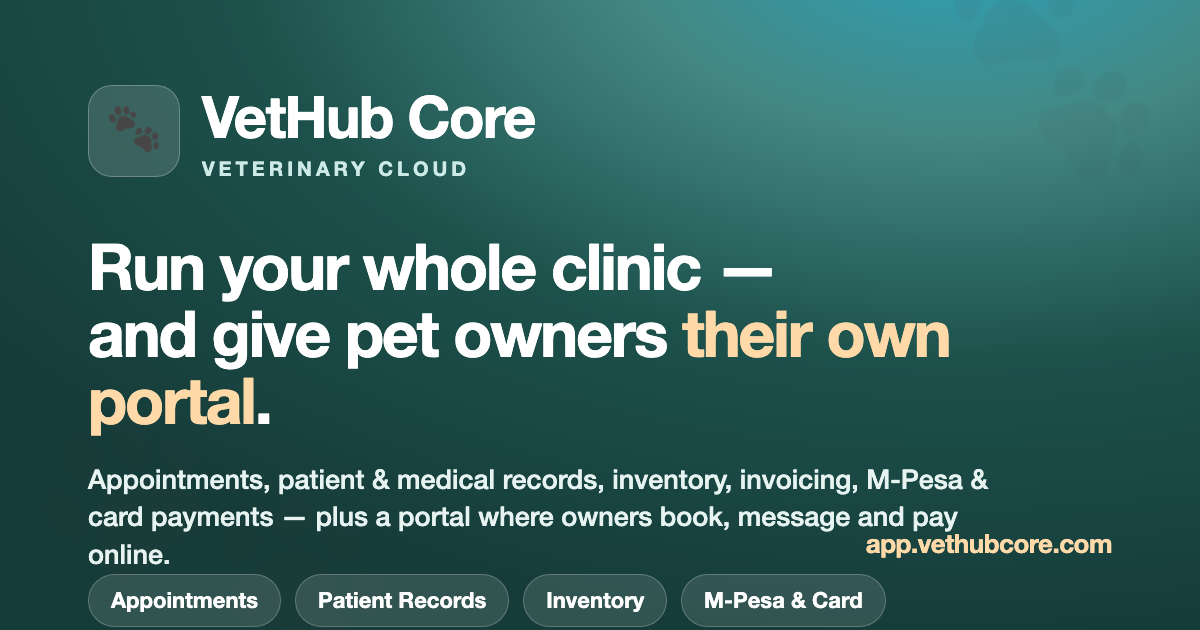
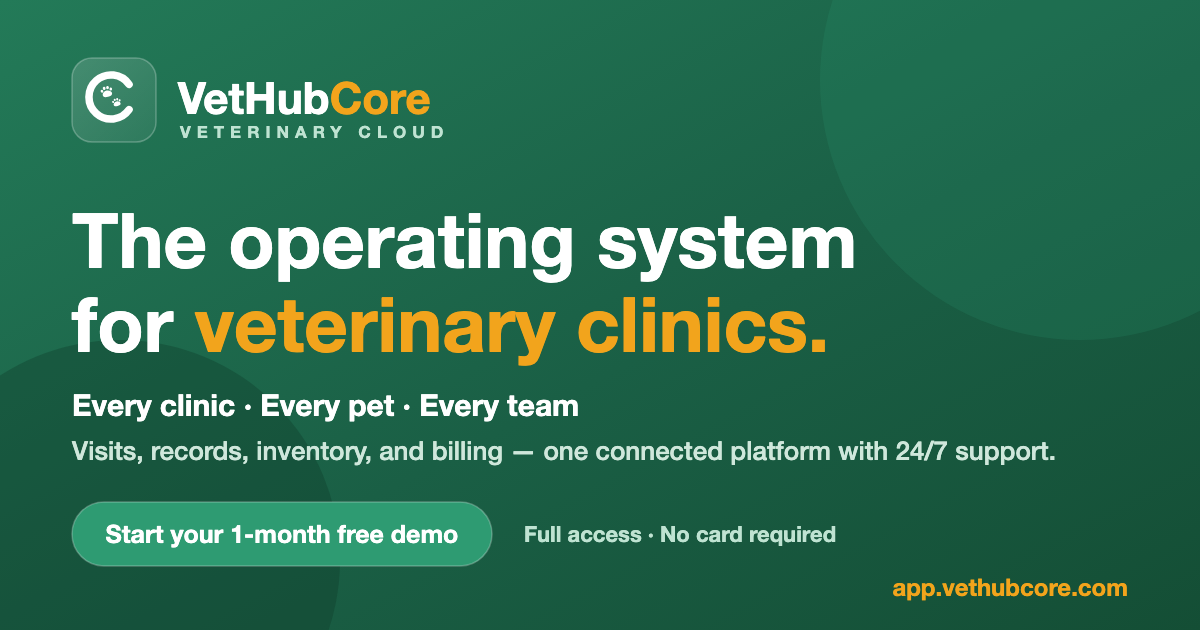
OG preview matches the landing hero + workflow loading pill + vaccination out of transfer list
- New og-image.png (1200x630, hero copy: 'The operating system for
  veterinary clinics' / Every clinic Every pet Every team / free-demo CTA);
  title/description/OG/twitter meta rewritten to the hero message;
  og:image URL cache-busted (?v=2) so WhatsApp refetches
- Visit workflow: amber 'Loading' pill next to the Journey button whenever
  ANY request is in flight (global pending-request counter in the API
  client, subscribePendingRequests)
- Vaccination removed from the transfer/add-encounter dropdown - it's part
  of the vet visit (vaccine services / Vaccination workflow chip)

diff --git a/services/api/client.ts b/services/api/client.ts
@@ -32,6 +32,23 @@ const sleep = (ms: number): Promise<void> => {
 };
 
 /**
+ * Global network-activity tracker — how many requests are in flight right
+ * now (cache hits don't count). UI surfaces (e.g. the visit workflow's
+ * loading pill) subscribe to show that SOMETHING is loading.
+ */
+let pendingCount = 0;
+const pendingListeners = new Set<(n: number) => void>();
+export const subscribePendingRequests = (fn: (n: number) => void): (() => void) => {
+  pendingListeners.add(fn);
+  fn(pendingCount);
+  return () => { pendingListeners.delete(fn); };
+};
+const bumpPending = (delta: number) => {
+  pendingCount = Math.max(0, pendingCount + delta);
+  pendingListeners.forEach(fn => { try { fn(pendingCount); } catch { /* listener */ } });
+};
+
+/**
  * Make API request with retry logic and caching
  */
 const makeRequest = async <T = any>(
@@ -63,6 +80,8 @@ const makeRequest = async <T = any>(
   if (setLoading && !silent) {
     setLoading(true);
   }
+  bumpPending(1);
+  try {
 
   let lastError: any;
   let retryCount = 0;
@@ -129,6 +148,10 @@ const makeRequest = async <T = any>(
   }
 
   throw lastError;
+
+  } finally {
+    bumpPending(-1);
+  }
 };
 
 /**

diff --git a/components/clinic/appointments/VisitDetailView.tsx b/components/clinic/appointments/VisitDetailView.tsx
@@ -16,6 +16,7 @@ import { generateServiceNote, generateFullVisitSummary, analyzeServiceObservatio
 import { formatDate, formatTime } from '../../../services/utils/dateFormatter';
 import { vaccinationsAPI, visitsAPI, petsAPI, InventoryItem, clientDiscountsAPI, dialog, walletAPI, CATEGORY_TO_MENU_ID, remindersAPI, triageAPI } from '../../../services';
 import { printElementAsPdf } from '../shared/printPdf';
+import { subscribePendingRequests } from '../../../services/api/client';
 import type { Wallet as WalletData } from '../../../services';
 import { VaccinationRecord } from '../../../services/modules/vaccinations.api';
 import { appointmentMedicationsAPI, AppointmentMedication } from '../../../services/modules/appointmentMedications.api';
@@ -256,6 +257,10 @@ const VisitDetailInner: React.FC<Props> = ({
     return () => document.removeEventListener('mousedown', onDocClick);
   }, [printMenuFor]);
 
+  // Live network activity — the workflow shows a loading pill whenever ANY
+  // request is in flight (visit refresh, records, consumables, wallets…).
+  const [netBusy, setNetBusy] = useState(0);
+  useEffect(() => subscribePendingRequests(setNetBusy), []);
   const [isGeneratingSummary, setIsGeneratingSummary] = useState(false);
   const [isFinalizing, setIsFinalizing] = useState(false);
   const [showFinalizeGate, setShowFinalizeGate] = useState(false);
@@ -2536,10 +2541,18 @@ const VisitDetailInner: React.FC<Props> = ({
             <button key={t.id} onClick={() => setWorkflowTab(t.id as any)} className={`px-4 py-2 rounded-lg text-[10px] font-black uppercase tracking-widest transition-all whitespace-nowrap ${workflowTab === t.id ? 'bg-white dark:bg-zinc-800 text-pine dark:text-zinc-100 shadow-sm' : 'text-slate-400 hover:text-slate-600'}`}>{t.label}</button>
           ))}
         </div>
-        {/* Patient Journey — reachable from every tab, not only the wizard. */}
-        <button onClick={() => setShowJourney(true)} className="flex items-center gap-1.5 px-3 py-2 rounded-xl border border-seafoam/30 bg-seafoam/5 text-seafoam text-[10px] font-black uppercase tracking-widest hover:bg-seafoam hover:text-white transition-all">
-          🧭 Journey · {wiz.events.length}
-        </button>
+        <div className="flex items-center gap-2">
+          {/* Anything loading anywhere on this visit shows here. */}
+          {netBusy > 0 && (
+            <span className="flex items-center gap-1.5 px-3 py-2 rounded-xl border border-amber-300/60 dark:border-amber-700/50 bg-amber-50 dark:bg-amber-900/20 text-amber-700 dark:text-amber-400 text-[10px] font-black uppercase tracking-widest animate-in fade-in">
+              <Loader2 size={12} className="animate-spin" /> Loading{netBusy > 1 ? ` · ${netBusy}` : '…'}
+            </span>
+          )}
+          {/* Patient Journey — reachable from every tab, not only the wizard. */}
+          <button onClick={() => setShowJourney(true)} className="flex items-center gap-1.5 px-3 py-2 rounded-xl border border-seafoam/30 bg-seafoam/5 text-seafoam text-[10px] font-black uppercase tracking-widest hover:bg-seafoam hover:text-white transition-all">
+            🧭 Journey · {wiz.events.length}
+          </button>
+        </div>
       </div>
 
       {/* Tab 0 — Dynamic clinical wizard (entry-point-driven) */}

diff --git a/index.html b/index.html
@@ -6,8 +6,8 @@
   <meta name="viewport" content="width=device-width, initial-scale=1.0">
 
   <!-- ── SEO ───────────────────────────────────────────────────────── -->
-  <title>VetHub Core — Veterinary Practice Management Software & Pet-Owner Portal</title>
-  <meta name="description" content="VetHub Core is the operating system for veterinary clinics. Run your whole practice in one place: appointments, patient & medical records, inventory, invoicing, M-Pesa & card payments, plus a pet-owner portal for booking and paying online.">
+  <title>VetHub Core — The Operating System for Veterinary Clinics</title>
+  <meta name="description" content="The operating system for veterinary clinics. Every clinic · Every pet · Every team. Visits, records, inventory, and billing — one connected platform with 24/7 support. Start your 1-month free demo: full access, no card required.">
   <meta name="keywords" content="VetHub, Vet Hub, VetHub Core, Vet Hub Core, VetHubCore, vethubcore, vethubcore.com, VetHub vet software, VetHub veterinary, VetHub clinic, VetHub app, VetHub login, VetHub Kenya, VetHub Uganda, VetHub Tanzania, VetHub Nigeria, VetHub Ghana, VetHub Rwanda, VetHub South Africa, VetHub East Africa, VetHub Africa, veterinary practice management software, vet clinic software, pet clinic management, vet appointment scheduling, veterinary EMR, pet owner portal, M-Pesa vet payments, veterinary boarding software, pet boarding management, veterinary laboratory software, vet lab results, veterinary surgery management, veterinary imaging software, vet radiology, veterinary inpatient software, animal hospitalization management, emergency vet software, pet grooming software, veterinary vaccination reminders, vaccine package management, veterinary dental records, veterinary pharmacy inventory, vet billing and invoicing, veterinary software Kenya, veterinary software Uganda, veterinary software Tanzania, veterinary software Nigeria, veterinary software Ghana, veterinary software Rwanda, veterinary software South Africa, veterinary software East Africa, veterinary software Africa">
   <meta name="author" content="VetHub Core">
   <meta name="application-name" content="VetHub Core">
@@ -24,21 +24,21 @@
   <meta property="og:type" content="website">
   <meta property="og:site_name" content="VetHub Core">
   <meta property="og:url" content="https://app.vethubcore.com/">
-  <meta property="og:title" content="VetHub Core — Veterinary Practice Management & Pet-Owner Portal">
-  <meta property="og:description" content="One platform for your clinic: appointments, patient records, inventory, invoicing, M-Pesa & card payments — and a pet-owner portal to book, message and pay online.">
-  <meta property="og:image" content="https://app.vethubcore.com/og-image.png">
-  <meta property="og:image:secure_url" content="https://app.vethubcore.com/og-image.png">
+  <meta property="og:title" content="VetHub Core — The Operating System for Veterinary Clinics">
+  <meta property="og:description" content="Every clinic · Every pet · Every team. Visits, records, inventory, and billing — one connected platform with 24/7 support. Start your 1-month free demo — full access, no card required.">
+  <meta property="og:image" content="https://app.vethubcore.com/og-image.png?v=2">
+  <meta property="og:image:secure_url" content="https://app.vethubcore.com/og-image.png?v=2">
   <meta property="og:image:type" content="image/png">
   <meta property="og:image:width" content="1200">
   <meta property="og:image:height" content="630">
-  <meta property="og:image:alt" content="VetHub Core — veterinary practice management & pet-owner portal">
+  <meta property="og:image:alt" content="VetHub Core — the operating system for veterinary clinics">
   <meta property="og:locale" content="en_US">
 
   <!-- ── Twitter / X ───────────────────────────────────────────────── -->
   <meta name="twitter:card" content="summary_large_image">
-  <meta name="twitter:title" content="VetHub Core — Veterinary Practice Management & Pet-Owner Portal">
-  <meta name="twitter:description" content="One platform for your clinic: appointments, records, inventory, invoicing, M-Pesa & card payments — plus a pet-owner portal.">
-  <meta name="twitter:image" content="https://app.vethubcore.com/og-image.png">
+  <meta name="twitter:title" content="VetHub Core — The Operating System for Veterinary Clinics">
+  <meta name="twitter:description" content="Every clinic · Every pet · Every team. Visits, records, inventory, and billing — one connected platform with 24/7 support.">
+  <meta name="twitter:image" content="https://app.vethubcore.com/og-image.png?v=2">
 
   <link rel="preconnect" href="https://fonts.googleapis.com">
   <link rel="preconnect" href="https://fonts.gstatic.com" crossorigin>

diff --git a/components/clinic/appointments/wizard/VisitWizard.tsx b/components/clinic/appointments/wizard/VisitWizard.tsx
@@ -215,11 +215,11 @@ const VisitWizard: React.FC<Props> = ({ visit, pet, client, staff, activeClinic,
               Encounters already on the visit drop off the list. */}
           {onAddEncounter && (() => {
             const has = (kws: string[]) => (visit.tasks || []).some(t => kws.some(k => (t.category || '').toLowerCase().includes(k)));
-            // Hospitalization is NOT here — inpatient escalation has its own
-            // dedicated 🏥 button (next to Escalate to Emergency).
+            // Hospitalization is NOT here (dedicated 🏥 escalation button) and
+            // neither is Vaccination — it's part of the vet visit: add the
+            // vaccine as a service / run the Vaccination workflow chip.
             const options = [
               { value: 'VET_VISIT', label: '🩺 Vet Visit — consultation', taken: visit.encounterType === 'VET_VISIT' || has(['consult']) },
-              { value: 'VACCINATION', label: '💉 Vaccination', taken: visit.encounterType === 'VACCINATION' || has(['vaccin']) },
               { value: 'GROOMING', label: '✂️ Grooming', taken: visit.encounterType === 'GROOMING' || has(['groom']) },
               { value: 'BOARDING', label: '🏠 Boarding', taken: visit.encounterType === 'BOARDING' || has(['board']) },
             ].filter(o => !o.taken);